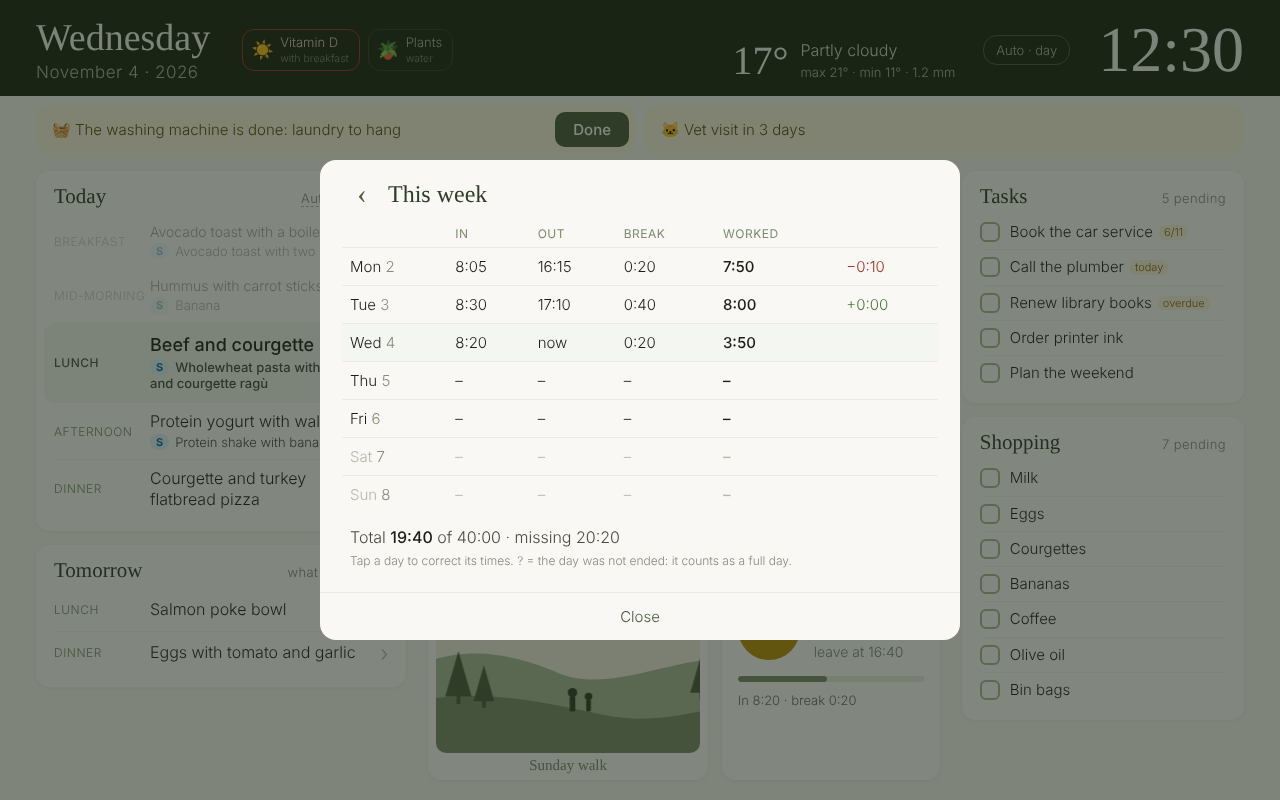
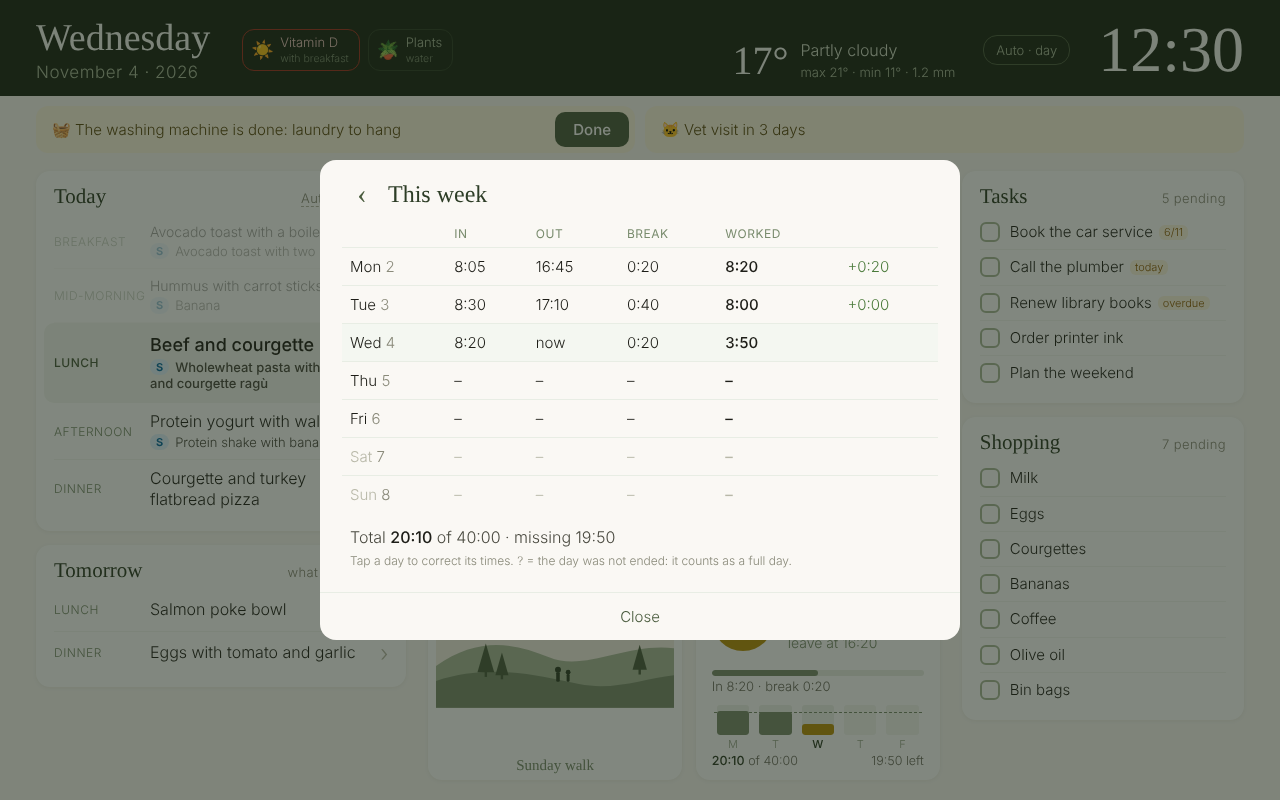
Work timer counts the week: leave time from the week so far, bars per day, week total, coffee drawing
The configured hours are an average: extra time earlier in the week lets you
leave earlier today, and on the last day it shows what is left for the week.
Past workdays with nothing recorded count as days off. New weekShare unit
test; e2e checks the bars and the total; guides, spec and screenshots updated.

Claude-Session: https://claude.ai/code/session_01XFa5nRVnwC7EDj78HJYt1f

diff --git a/panel/app.js b/panel/app.js
@@ -579,17 +579,43 @@
      ▶ starts the day, ❚❚ opens a break, ▶ ends it. The leave time is now + what is left of
      the configured day. Events are stored on the server with the server's clock. */
   var WORK_MIN = CFG.WORK_TIMER ? C.workMinutes(CFG.WORK_TIMER.HOURS) : null;
-  var WORK = { events: [], offset: 0, sure: 0 };
+  var WORK = { events: [], prev: {}, offset: 0, sure: 0 };
 
   function clockOf(ms) { var d = new Date(ms); return d.getHours() + ':' + C.pad(d.getMinutes()); }
   function workNow() { return now().getTime() + WORK.offset; }
   function workSync(data) { if (data && data.now && !window.__NOW__) WORK.offset = data.now - new Date().getTime(); }
 
+  // The week so far: one entry per day, Monday first, and today's index
+  function workWeek(t) {
+    var d = now(), monday = C.startOfDay(d), workDays = CFG.WORK_TIMER.DAYS || [1, 2, 3, 4, 5], days = [], idx = 0;
+    monday.setDate(monday.getDate() - ((monday.getDay() + 6) % 7));
+    for (var i = 0; i < 7; i++) {
+      var x = new Date(monday.getTime()); x.setDate(monday.getDate() + i);
+      var key = C.dateKey(x), ev = WORK.prev[key] || [];
+      if (key === C.dateKey(d)) idx = i;
+      days.push({ date: x, on: workDays.indexOf(x.getDay()) !== -1, logged: ev.length > 0,
+        worked: ev.length ? C.workSummary(ev, t, false, WORK_MIN).worked : 0 });
+    }
+    return { days: days, index: idx, share: C.weekShare(days, idx, WORK_MIN) };
+  }
+
+  function weekBars(w, todayWorked) {
+    var day = WORK_MIN * 60000, max = day * 1.35, letters = T('wkLetters'), html = '';
+    for (var i = 0; i < 7; i++) {
+      var d = w.days[i], v = i === w.index ? todayWorked : d.worked;
+      if (!d.on && !v) continue;
+      html += '<div class="wb' + (i === w.index ? ' wb-today' : '') + (i > w.index ? ' wb-future' : '') + (v >= day ? ' wb-full' : '') + '">' +
+        '<div class="wb-col"><i style="height:' + Math.min(100, Math.round((v || 0) / max * 100)) + '%"></i></div><span>' + esc(letters[d.date.getDay()]) + '</span></div>';
+    }
+    // dashed line at the daily average, inside the 30 px bars (labels below take 14 px)
+    return '<div class="wk-week"><div class="wb-line" style="bottom:' + (14 + Math.round(30 * day / max)) + 'px"></div>' + html + '</div>';
+  }
+
   function renderWork() {
     var box = $('work');
     if (!WORK_MIN) { box.style.display = 'none'; return; }
-    var t = workNow(), target = WORK_MIN * 60000;
-    var s = C.workSummary(WORK.events, t, true, WORK_MIN);
+    var t = workNow(), w = workWeek(t), target = w.share.today;
+    var s = C.workSummary(WORK.events, t, true, target / 60000);
     var btn, line, stop = '', exit;
     if (s.state === 'work') {
       btn = '<div class="wk-btn wk-pause" data-act="pause"><i></i><i></i></div>';
@@ -599,30 +625,41 @@
       line = T('wkOnBreak', { t: C.hm(t - s.since) });
     } else {
       btn = '<div class="wk-btn wk-play" data-act="start"><i></i></div>';
-      line = esc(s.state === 'done' ? T('wkDone', { d: (s.worked >= target ? '+' : '−') + C.hm(Math.abs(s.worked - target)) }) : T('wkTapToStart'));
+      line = '';
     }
     if (s.state === 'work' || s.state === 'break') {
       var sure = WORK.sure > t;
       stop = '<span class="wk-stop' + (sure ? ' wk-sure' : '') + '" data-act="stop">' + esc(T(sure ? 'wkStopSure' : 'wkStop')) + '</span>';
     }
-    exit = s.state === 'done' ? T('wkLeft', { t: clockOf(s.out) }) : s.state === 'idle' ? T('wkDay', { t: C.hm(target) }) : T('wkLeaveAt', { t: clockOf(s.exit) });
+    exit = s.state === 'done' ? T('wkLeft', { t: clockOf(s.out) }) : s.state === 'idle' ? T('wkTodayShare', { t: C.hm(target) }) :
+      s.worked >= target ? T('wkCanLeave') : T('wkLeaveAt', { t: clockOf(s.exit) });
+    var weekDone = w.share.prevWorked + s.worked, left = w.share.weekTarget - weekDone;
     box.style.display = '';
     box.className = 'card card-work wk-' + s.state;
     // while the day runs, "End" takes the place of "week ›" so the card needs one line less
     box.innerHTML = '<div class="wk-hd">' + esc(T('wkTitle')) + (stop || '<span>' + esc(T('wkWeekLink')) + '</span>') + '</div>' +
+      '<div class="wk-cafe"></div>' +
       '<div class="wk-row">' + btn + '<div class="wk-info"><div class="wk-time">' + C.hm(s.worked) + '</div>' +
       '<div class="wk-exit">' + esc(exit) + '</div></div></div>' +
-      '<div class="wk-bar"><i style="width:' + Math.min(100, Math.round(s.worked / target * 100)) + '%"></i></div>' +
-      '<div class="wk-state">' + line + '</div>';
+      '<div class="wk-bar"><i style="width:' + (target ? Math.min(100, Math.round(s.worked / target * 100)) : 100) + '%"></i></div>' +
+      (line ? '<div class="wk-state">' + line + '</div>' : '') + weekBars(w, s.worked) +
+      '<div class="wk-sum"><span>' + T('wkWeekSum', { t: C.hm(weekDone), d: C.hm(w.share.weekTarget) }) + '</span>' +
+      (left > 0 ? '<span>' + esc(T('wkWeekLeft', { t: C.hm(left) })) + '</span>' : '<em>+' + C.hm(-left) + '</em>') + '</div>';
+    // the drawing only when there is room for it
+    if (box.scrollHeight > box.clientHeight + 1) box.className += ' wk-tight';
   }
 
   function loadWork() {
     if (!WORK_MIN) return;
-    var day = C.dateKey(now());
-    xhr('GET', '/panel/work?from=' + day + '&to=' + day, null, function (data) {
+    var d = now(), day = C.dateKey(d), monday = C.startOfDay(d);
+    monday.setDate(monday.getDate() - ((monday.getDay() + 6) % 7));
+    xhr('GET', '/panel/work?from=' + C.dateKey(monday) + '&to=' + day, null, function (data) {
       if (!data) return;
       workSync(data);
-      WORK.events = (data.days && data.days[day]) || [];
+      var all = data.days || {};
+      WORK.events = all[day] || [];
+      WORK.prev = {};
+      for (var k in all) if (k !== day) WORK.prev[k] = all[k];
       renderWork();
     });
   }
@@ -717,7 +754,7 @@
       for (var i = 1; i < ev.length; i++) if (ev[i].ts <= ev[i - 1].ts) { EDIT.error = T('wkOrder'); renderWorkDay(); return; }
       xhr('POST', '/panel/work', { day: EDIT.key, events: ev }, function (data, status) {
         if (!data) { EDIT.error = T('wkSaveError', { s: status }); renderWorkDay(); return; }
-        if (EDIT.key === C.dateKey(now())) { WORK.events = data.events; renderWork(); }
+        loadWork();   // recompute today and the week
         openWorkWeek(EDIT.back);
       });
       return;

diff --git a/panel/styles.css b/panel/styles.css
@@ -397,3 +397,32 @@ html.night .cv-seg span.on { background: #2d3726; color: #a8b89a; }
   .wk-bar { margin-top: 8px; }
   .wk-state { margin-top: 6px; }
 }
+
+/* Work timer: drawing, the week as small bars and the week total. The leave time counts the week so far. */
+.card-work { -webkit-justify-content: space-between; justify-content: space-between; }
+.card-work .wk-row, .card-work .wk-state { margin-top: 0; margin-bottom: 0; }
+.wk-cafe { height: 46px; -webkit-flex-shrink: 1; flex-shrink: 1; min-height: 0; background: url(img/deco-cafe.svg) center center no-repeat; -webkit-background-size: contain; background-size: contain; }
+.wk-tight .wk-cafe { display: none; }
+.wk-week { position: relative; display: -webkit-flex; display: flex; height: 44px; margin-top: 8px; }
+.wb { -webkit-flex: 1; flex: 1; text-align: center; }
+.wb-col { position: relative; height: 30px; margin: 0 5px; background: #eef2ea; border-radius: 3px; overflow: hidden; }
+.wb-col i { position: absolute; left: 0; right: 0; bottom: 0; background: #b5c4a6; border-radius: 3px; }
+.wb-full .wb-col i { background: #7a8c6e; }
+.wb-today .wb-col i { background: #b8900a; }
+.wb-today.wb-full .wb-col i { background: #4a5c3e; }
+.wb span { display: block; font-size: 11px; color: #9aa68e; margin-top: 2px; }
+.wb-today span { color: #2d3d26; font-weight: 500; }
+.wb-future .wb-col { background: #f3f5f0; }
+.wb-line { position: absolute; left: 2px; right: 2px; height: 0; border-top: 1px dashed #7a8c6e; z-index: 1; }
+.wk-sum { font-size: 12.5px; color: #6c6c60; white-space: nowrap; display: -webkit-flex; display: flex; -webkit-justify-content: space-between; justify-content: space-between; margin-top: 2px; }
+.wk-sum b { font-weight: 500; color: #2d3d26; }
+.wk-sum em { font-style: normal; color: #4a7a3a; font-weight: 500; }
+html.night .wk-cafe { opacity: .45; }
+html.night .wb-col { background: #1d2419; }
+html.night .wb-col i { background: #3f4d36; }
+html.night .wb-full .wb-col i { background: #4a5c3e; }
+html.night .wb-today .wb-col i { background: #6a5a1a; }
+html.night .wk-sum, html.night .wb span { color: #5f6b55; }
+html.night .wk-sum b { color: #8f9c84; }
+.card-work { width: 244px; }
+@media (max-width: 680px) { .card-work { width: 100%; } }

diff --git a/panel/core.js b/panel/core.js
@@ -163,6 +163,26 @@ var PanelCore = (function () {
     return r;
   }
 
+  /* The daily hours are an average: what counts is the week. days = the 7 days of the week
+     (Monday first) as {on: workday?, logged: has entries?, worked: ms}; a past workday with no
+     entries counts as a day off. Returns how much is left for today and for the week. */
+  function weekShare(days, todayIndex, dayMin) {
+    var day = dayMin * 60000, r = { prevWorked: 0, prevDue: 0, weekTarget: 0 };
+    for (var i = 0; i < days.length; i++) {
+      var d = days[i];
+      if (i < todayIndex) {
+        r.prevWorked += d.worked || 0;
+        if (d.on && d.logged) { r.prevDue += day; r.weekTarget += day; }
+      } else if (d.on) {
+        r.weekTarget += day;
+      }
+    }
+    r.today = days[todayIndex] && days[todayIndex].on
+      ? Math.max(0, day - (r.prevWorked - r.prevDue))
+      : Math.max(0, r.weekTarget - r.prevWorked);
+    return r;
+  }
+
   /* Translation helper: tr('more', {n: 3}) */
   function translator(i18n, lang) {
     var table = i18n[lang] || i18n.en;
@@ -178,6 +198,6 @@ var PanelCore = (function () {
     DAY_MS: DAY_MS, pad: pad, startOfDay: startOfDay, parseDate: parseDate, dateKey: dateKey,
     planFor: planFor, currentMeal: currentMeal, mainDish: mainDish, stripTags: stripTags,
     dueLabel: dueLabel, checklistState: checklistState, isNight: isNight, translator: translator,
-    workMinutes: workMinutes, hm: hm, workSummary: workSummary
+    workMinutes: workMinutes, hm: hm, workSummary: workSummary, weekShare: weekShare
   };
 })();

diff --git a/tests/js/core.test.js b/tests/js/core.test.js
@@ -128,3 +128,19 @@ test('mainDish: never returns markup, even from nested or broken tags', () => {
     assert.ok(out.includes('Soup'), out);
   }
 });
+
+test('weekShare: the daily hours are an average over the week', () => {
+  const H = 3600000, day = (on, worked, logged) => ({ on, worked, logged: logged === undefined ? worked > 0 : logged });
+  // Mon 8h, Tue 9h, Wed 6h, Thu 8.5h, today Friday; 7:42 a day
+  let w = C.weekShare([day(1, 8 * H), day(1, 9 * H), day(1, 6 * H), day(1, 8.5 * H), day(1, 0), day(0, 0), day(0, 0)], 4, 462);
+  assert.strictEqual(w.prevWorked, 31.5 * H);
+  assert.strictEqual(w.weekTarget, 5 * 462 * 60000);
+  assert.strictEqual(w.today, 462 * 60000 - (31.5 * H - 4 * 462 * 60000), 'extra hours earlier → less today');
+  // a past workday with nothing logged is a day off: it is not owed
+  w = C.weekShare([day(1, 0), day(1, 0), day(1, 8 * H), day(1, 0), day(1, 0), day(0, 0), day(0, 0)], 3, 480);
+  assert.strictEqual(w.weekTarget, 3 * 8 * H);
+  assert.strictEqual(w.today, 8 * H);
+  // way ahead → nothing left today
+  w = C.weekShare([day(1, 20 * H), day(1, 0)], 1, 480);
+  assert.strictEqual(w.today, 0);
+});

diff --git a/panel/i18n.js b/panel/i18n.js
@@ -38,6 +38,11 @@ var I18N = {
     wkMissing: 'missing {t}',
     wkOpenNote: '? = the day was not ended: it counts as a full day.',
     wkFix: 'Correct · {d}',
+    wkTodayShare: 'today: {t}',
+    wkCanLeave: 'you can leave',
+    wkWeekSum: '<b>{t}</b> of {d}',
+    wkWeekLeft: '{t} left',
+    wkLetters: ['S', 'M', 'T', 'W', 'T', 'F', 'S'],
     wkFixHint: 'Tap a day to correct its times.',
     wkLabels: { start: 'In', pause: 'Break', resume: 'Back', stop: 'Out' },
     wkAdd: '+ {x}',
@@ -123,6 +128,11 @@ var I18N = {
     wkMissing: 'faltan {t}',
     wkOpenNote: '? = sin terminar la jornada: se cuenta completa.',
     wkFix: 'Corregir · {d}',
+    wkTodayShare: 'hoy te tocan {t}',
+    wkCanLeave: 'ya puedes salir',
+    wkWeekSum: '<b>{t}</b> de {d}',
+    wkWeekLeft: 'faltan {t}',
+    wkLetters: ['D', 'L', 'M', 'X', 'J', 'V', 'S'],
     wkFixHint: 'Toca un día para corregir las horas.',
     wkLabels: { start: 'Entrada', pause: 'Descanso', resume: 'Vuelta', stop: 'Salida' },
     wkAdd: '+ {x}',

diff --git a/tests/e2e/panel.e2e.js b/tests/e2e/panel.e2e.js
@@ -203,6 +203,8 @@ async function scenario(name, fn) {
     const p = await page(browser, { config: { WORK_TIMER: { HOURS: '8:00', DAYS: [1, 2, 3, 4, 5] } } });
     const cls = async () => p.getAttribute('#work', 'class');
     assert.ok((await cls()).includes('wk-idle'), await cls());
+    assert.strictEqual(await p.locator('#work .wb').count(), 5, 'one bar per workday');
+    assert.ok(/of \d+:\d\d/.test(await p.textContent('#work .wk-sum')), await p.textContent('#work .wk-sum'));
     await p.click('#work [data-act=start]'); await p.waitForTimeout(500);
     assert.ok((await cls()).includes('wk-work'));
     await p.click('#work [data-act=pause]'); await p.waitForTimeout(500);

diff --git a/docs/es/guia.md b/docs/es/guia.md
@@ -129,7 +129,9 @@ Toca la agenda de la semana para abrir un calendario completo, al estilo de Goog
 
 Sirve para saber cuántas horas trabajas de verdad sin apuntarlas en ningún sitio. Solo aparece si pones `WORK_TIMER` en `panel/config.js`, con las horas que trabajas **tú**: el repo no da por hecha ninguna jornada.
 
-- **▶** empieza la jornada. La tarjeta enseña las horas trabajadas y, más clarito, la hora a la que puedes salir para completar tu jornada.
+- **▶** empieza la jornada. La tarjeta enseña las horas trabajadas y, más clarito, la hora a la que puedes salir.
+- **Tus horas son una media de la semana.** Si otro día echaste más, hoy puedes salir antes (y al revés), así que el viernes te dice lo que falta para cuadrar la *semana*, no para un día normal. Un día laborable pasado sin ningún fichaje cuenta como libre.
+- **Unas barritas** enseñan cada día laborable de la semana, con una raya en tus horas diarias, y abajo tienes el total de la semana y lo que falta.
 - **❚❚** abre un descanso (la tarjeta se pone amarilla y lo cuenta). Al darle otra vez a **▶** sigue sumando, y la hora de salida se retrasa lo que haya durado el descanso.
 - **Terminar** (arriba a la derecha mientras la jornada está en marcha) pide un segundo toque en 4 segundos, para no cerrarla sin querer.
 - **Tocando la tarjeta** ves la semana: entrada, salida, descansos, horas trabajadas y la diferencia con tu jornada; con la flecha vas a semanas anteriores.

diff --git a/docs/guide.md b/docs/guide.md
@@ -125,7 +125,9 @@ Tap the week's agenda to open a full calendar, a bit like Google Calendar: **Wee
 
 Useful if you want to know how many hours you really work without writing them down anywhere. It only shows when `WORK_TIMER` is set in `panel/config.js`, with the hours **you** work: nothing in the repo assumes a particular working day.
 
-- **▶** starts the day. The card shows the time worked and, lighter, the time you can leave to complete your day.
+- **▶** starts the day. The card shows the time worked and, lighter, the time you can leave.
+- **Your hours are an average over the week.** If you worked longer earlier in the week, the card lets you leave earlier today (and the other way round), so on Friday it tells you what is left for the *week*, not for a standard day. A past workday with nothing recorded counts as a day off.
+- **Small bars** show each workday of the week, with a dashed line at your daily hours, and the bottom line shows the week total and what is left.
 - **❚❚** starts a break (the card turns yellow and counts it). **▶** again carries on, and the leave time moves forward by the length of the break.
 - **End** (top right while the day runs) needs a second tap within 4 seconds, so the day is not ended by accident.
 - **Tap the card** to see the week: in, out, breaks, hours worked and the difference with your day; the arrow goes to earlier weeks.

diff --git a/docs/specs/work-timer.md b/docs/specs/work-timer.md
@@ -15,7 +15,8 @@ Let someone who does not log their hours anywhere see, at a glance, how long the
 ## Acceptance Scenarios
 
 1. Given `WORK_TIMER: null` (default), the card is not shown and the photo keeps the space.
-2. Given `WORK_TIMER: { HOURS: '8:00' }`, when ▶ is tapped, the card shows the time worked and "leave at" = now + what is left.
+2. Given `WORK_TIMER: { HOURS: '8:00' }`, when ▶ is tapped, the card shows the time worked and "leave at" = now + what is left of **today's share of the week**: HOURS − (worked so far this week − HOURS × past workdays with entries). Past workdays without entries are days off.
+2b. The card shows one small bar per workday (dashed line at HOURS) and the week total against HOURS × (past logged workdays + workdays from today).
 3. When ❚❚ is tapped, a break starts; the leave time moves forward while it lasts; ▶ resumes.
 4. "End" (in the card header while the day runs) needs a second tap within 4 s; then the card shows the difference with the day.
 5. Tapping the card opens the week (in, out, break, worked, ±) with the total against `HOURS × DAYS`; arrows move between weeks.
